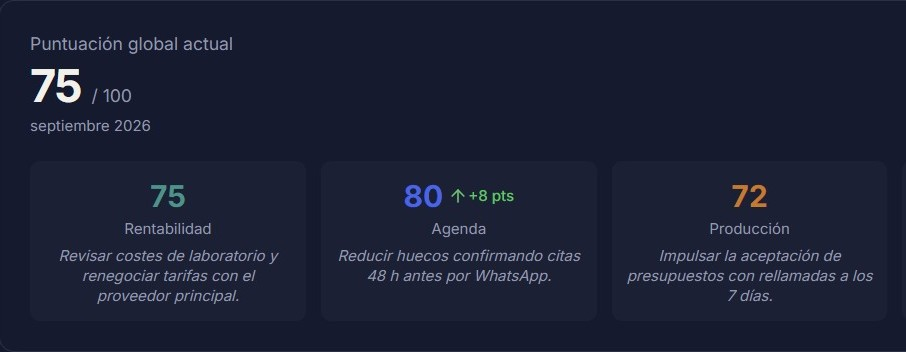
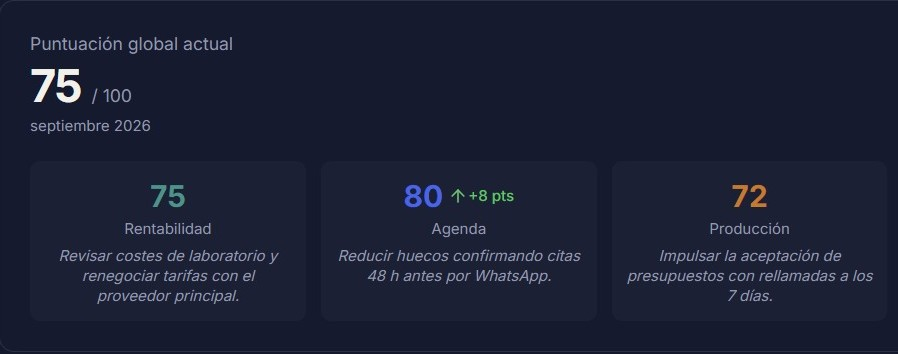
Hero: capturas sin cortes
Claude-Session: https://claude.ai/code/session_01GadXSXADrU7ypZbKLtjD17

diff --git a/index.html b/index.html
@@ -1337,15 +1337,16 @@ dialog::backdrop{background:rgba(11,11,13,.6);backdrop-filter:blur(3px)}
 .hv-win img,.hv-card img{display:block;width:100%;height:auto}
 .hv-card{position:relative;border-radius:12px;overflow:hidden;border:1px solid rgba(255,255,255,.16);background:#161B2E;box-shadow:0 30px 70px -30px rgba(0,0,0,.9)}
 .hv-main{width:100%}
-.hv-plan{width:84%;margin:-3% 0 0 auto;margin-right:-6%;z-index:2}
+.hv-planw{position:relative;width:100%;margin:26px 0 0}
+.hv-plan{width:100%}
 .hv-tag{position:absolute;z-index:3;font-size:.7rem;font-weight:600;letter-spacing:.05em;color:#0B0B0D;background:var(--brass);padding:6px 11px;border-radius:999px;box-shadow:0 8px 20px -8px rgba(0,0,0,.6);white-space:nowrap}
 .hv-t1{right:18px;top:-13px}
-.hv-t2{left:4%;bottom:-20px}
+.hv-t2{right:18px;top:-13px}
 .hero-visual figcaption{font-size:.86rem;color:var(--band-2);line-height:1.5;max-width:48ch}
 .hero-visual figcaption b{color:var(--band-fg);font-weight:600}
-@media (max-width:1180px){.hv-plan{margin-right:0}}
+
 @media (max-width:900px){.hero-grid{grid-template-columns:1fr}.hero-visual{max-width:620px;margin-top:8px}}
-@media (max-width:520px){.hv-plan{width:100%;margin:-2% 0 0}.hv-tag{display:none}}
+@media (max-width:520px){.hv-planw{width:100%;margin-top:14px}.hv-tag{display:none}}
 </style>
 
 </head>
@@ -1405,11 +1406,13 @@ dialog::backdrop{background:rgba(11,11,13,.6);backdrop-filter:blur(3px)}
       <div class="hv-stage">
         <div class="hv-win hv-main">
           <div class="hv-bar" aria-hidden="true"><i></i><i></i><i></i><span>portal.dexdireccionygestion.com</span></div>
-          <img src="assets/portal-dex-score.jpg" width="906" height="352" alt="DEX Score en el Portal DEX: puntuación global de 75 sobre 100 en septiembre, con rentabilidad, agenda y producción y una recomendación para cada área">
+          <img src="assets/portal-dex-score.jpg" width="898" height="354" alt="DEX Score en el Portal DEX: puntuación global de 75 sobre 100 en septiembre, con rentabilidad, agenda y producción y una recomendación para cada área">
         </div>
-        <div class="hv-card hv-plan"><img src="assets/portal-plan-accion.jpg" width="846" height="280" alt="Plan de acción en el Portal DEX: tareas con estado, responsable, prioridad y fecha de vencimiento"></div>
         <span class="hv-tag hv-t1" aria-hidden="true">DEX Score mensual</span>
-        <span class="hv-tag hv-t2" aria-hidden="true">Plan de acción con fechas</span>
+        <div class="hv-planw">
+          <span class="hv-tag hv-t2" aria-hidden="true">Plan de acción con fechas</span>
+          <div class="hv-card hv-plan"><img src="assets/portal-plan-accion.jpg" width="1058" height="284" alt="Plan de acción en el Portal DEX: tareas con estado, responsable, prioridad y fecha de vencimiento"></div>
+        </div>
       </div>
       <figcaption><b>Portal DEX.</b> Tu clínica en un solo sitio: DEX Score, plan de acción, informes y comunicación con DEX.</figcaption>
       <div id="heroVideo"></div>
